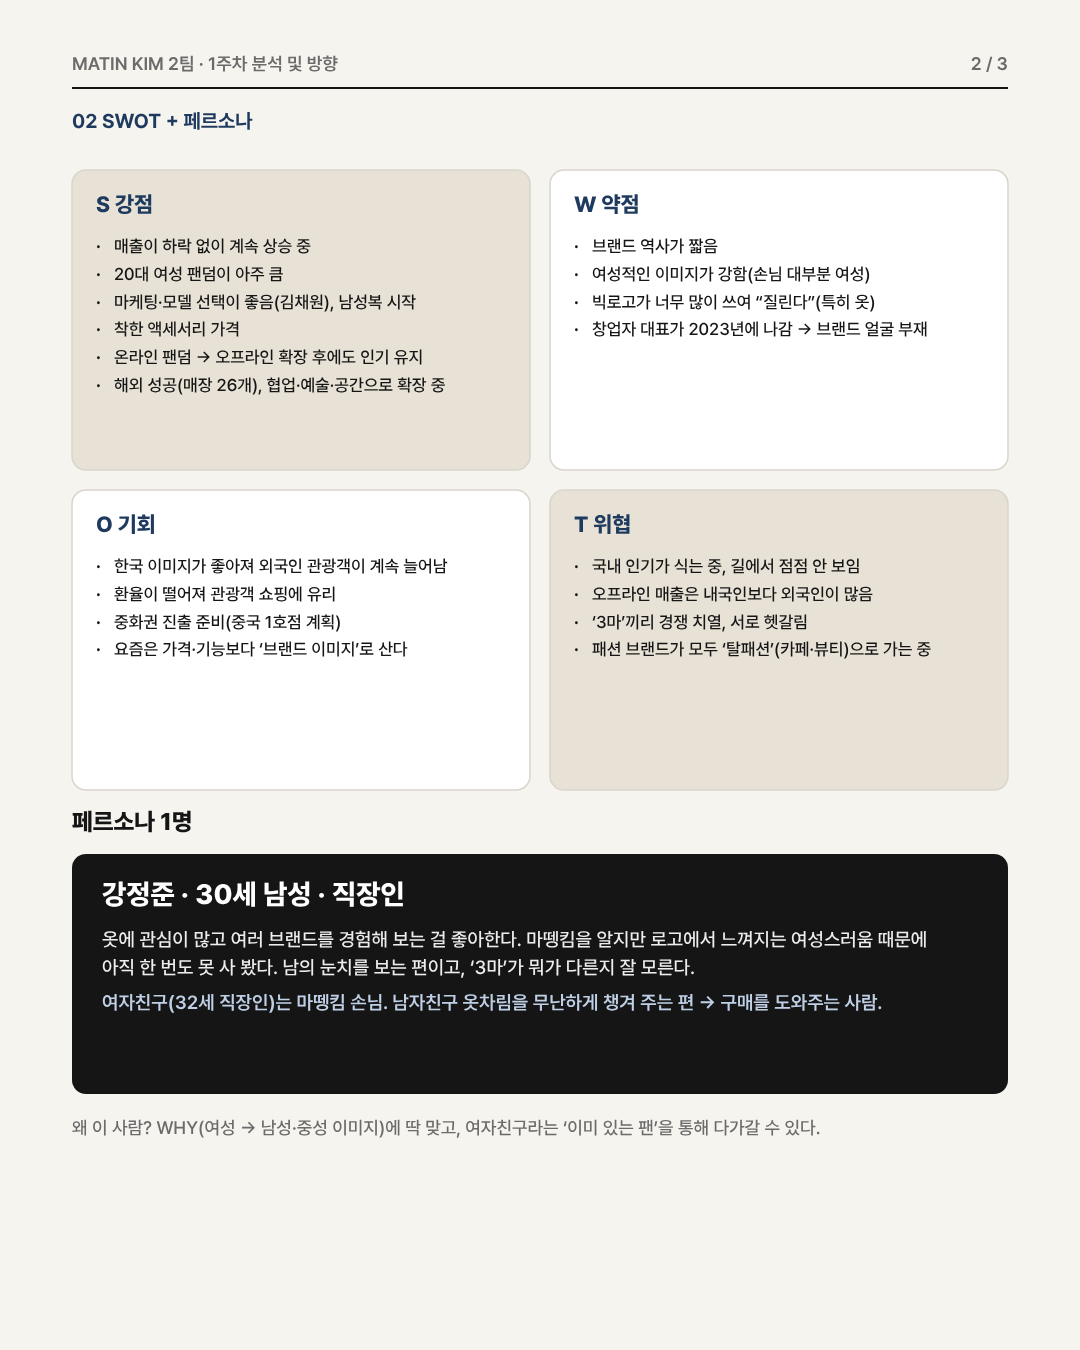
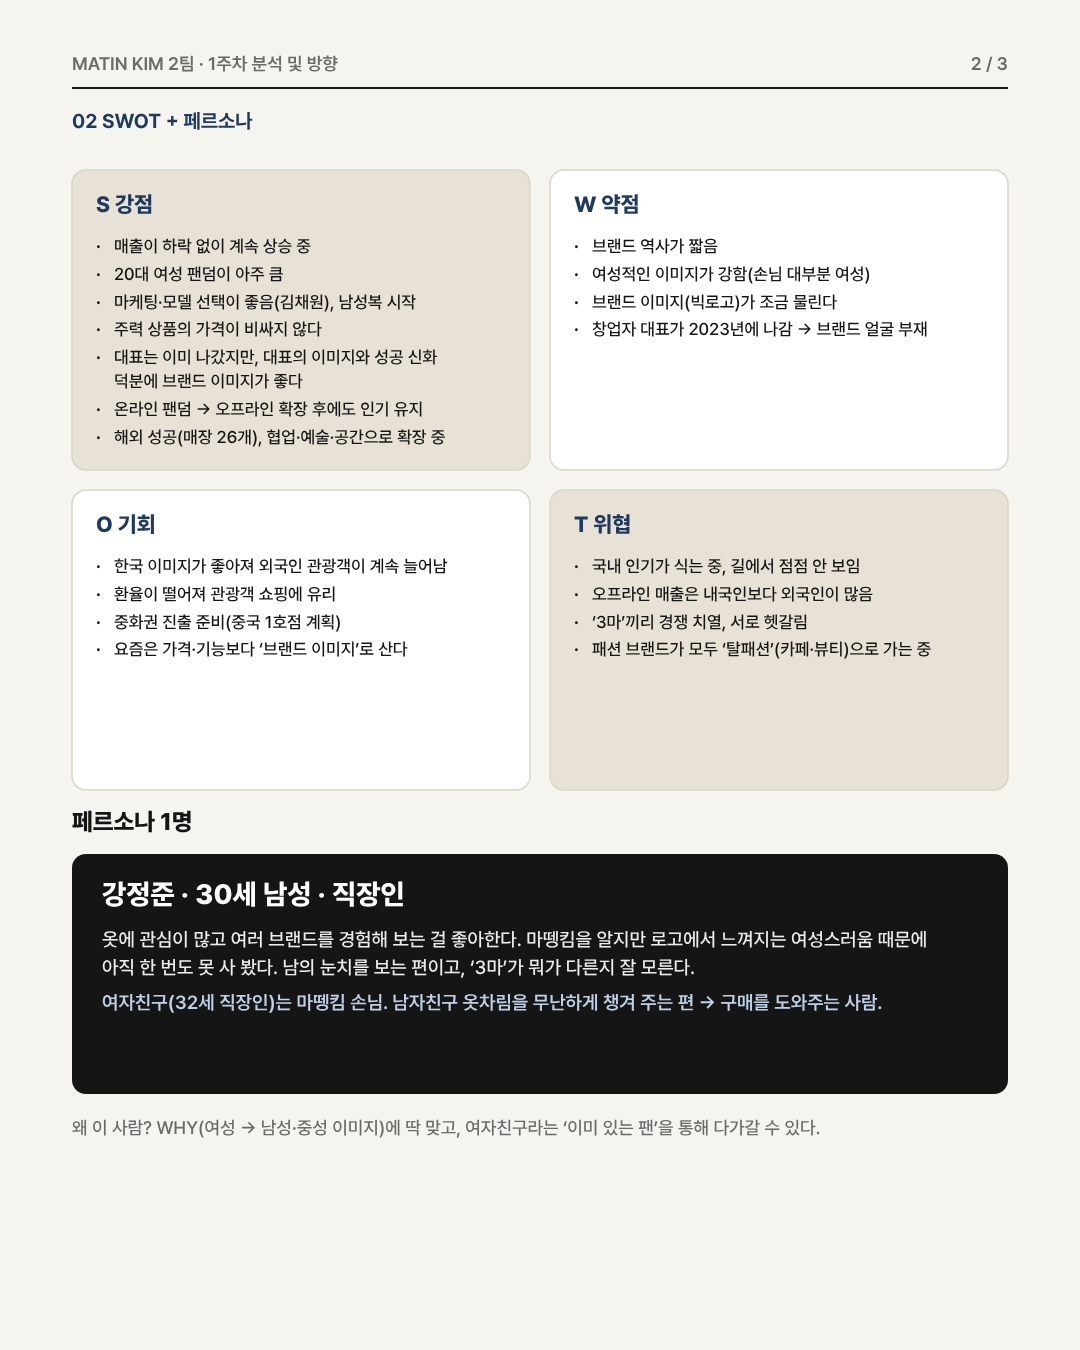
마뗑킴 1주차: 경쟁사 설명·SWOT 강점/약점을 강정준비준 의견대로 고침
Claude-Session: https://claude.ai/code/session_01VwLjVAGVevWminy8McjiU3

Changed region(s): [[0.0917, 0.2178, 0.3972, 0.3422], [0.55, 0.2178, 0.7944, 0.2489]]

diff --git a/개인공부/마케팅교육/마뗑킴_1주차_제출.md b/개인공부/마케팅교육/마뗑킴_1주차_제출.md
@@ -18,8 +18,8 @@
 
 | 구분 | 브랜드 | 왜 경쟁사인가 |
 |---|---|---|
-| 지금의 패션 경쟁자 | 마리떼 프랑소와 저버 | 2025년 매출 1,919억(+27.2%). 같은 2030 여성 · 로고 · 해외 확장. 손님이 "마뗑킴이랑 헷갈린다" |
-| 앞으로의 라이프스타일 경쟁자 | 젠틀몬스터(누데이크 · 탬버린즈) | 안경 브랜드가 디저트 · 향수 · 공간으로 넓혀 "감각 좋은 브랜드"가 됨 → 마뗑킴이 가려는 자리 |
+| 지금의 패션 경쟁자 | 마리떼 프랑소와 저버 | 패션 쪽에서 마뗑킴과 같이 엮이는데, 이미 먼저 브랜드 확장을 적극적으로 하고 있다. |
+| 앞으로의 라이프스타일 경쟁자 | 젠틀몬스터(누데이크 · 탬버린즈) | 마뗑킴이 추구하는 이미지를 젠틀몬스터가 이미 선점하고 있다. |
 
 ---
 
@@ -27,7 +27,7 @@
 
 | 강점 S | 약점 W |
 |---|---|
-| · 매출이 계속 오름(하락 없이 상승 중) <br>· 20대에게 좋은 브랜드 이미지, 여성 팬덤이 아주 큼 <br>· 마케팅을 잘함 — 모델 선택이 좋음(김채원), 남성복도 시작 <br>· 착한 액세서리 가격 <br>· 온라인 팬덤 → 오프라인으로 넓힌 뒤에도 인기 유지 <br>· 해외에서도 성공(해외 매장 26개) <br>· 올해 협업 · 예술 · 문화 공간으로 영역을 넓히는 중 | · 브랜드 역사가 짧음 <br>· 여성적인 이미지가 강함(실제 손님도 대부분 여성) <br>· 빅로고가 너무 많이 쓰여 "질린다"는 반응(특히 옷) <br>· 창업자(김다인) 대표가 2023년에 나감 → 브랜드 얼굴이 없어짐 |
+| · 매출이 계속 오름(하락 없이 상승 중) <br>· 20대에게 좋은 브랜드 이미지, 여성 팬덤이 아주 큼 <br>· 마케팅을 잘함 — 모델 선택이 좋음(김채원), 남성복도 시작 <br>· 주력 상품의 가격이 비싸지 않다 <br>· 대표는 이미 나갔지만, 대표의 이미지와 성공 신화 덕분에 브랜드 이미지가 좋다 <br>· 온라인 팬덤 → 오프라인으로 넓힌 뒤에도 인기 유지 <br>· 해외에서도 성공(해외 매장 26개) <br>· 올해 협업 · 예술 · 문화 공간으로 영역을 넓히는 중 | · 브랜드 역사가 짧음 <br>· 여성적인 이미지가 강함(실제 손님도 대부분 여성) <br>· 브랜드 이미지(빅로고)가 조금 물린다 <br>· 창업자(김다인) 대표가 2023년에 나감 → 브랜드 얼굴이 없어짐 |
 | **기회 O** | **위협 T** |
 | · 한국 이미지가 좋아져 외국인 관광객이 계속 늘어남 <br>· 환율이 떨어지고 있어 관광객이 쇼핑하기 좋음 <br>· 중화권 진출 준비(중국 1호점 계획) <br>· 요즘 소비는 가격 · 기능보다 '브랜드 이미지'로 산다 | · 국내 인기가 식는 중 — 길에서 점점 안 보임 <br>· 오프라인 매장 매출은 내국인보다 외국인이 많음 <br>· '3마'끼리 경쟁이 치열 · 서로 헷갈림 <br>· 패션 브랜드들이 모두 '탈패션'(카페 · 뷰티)으로 가는 중 |
 
